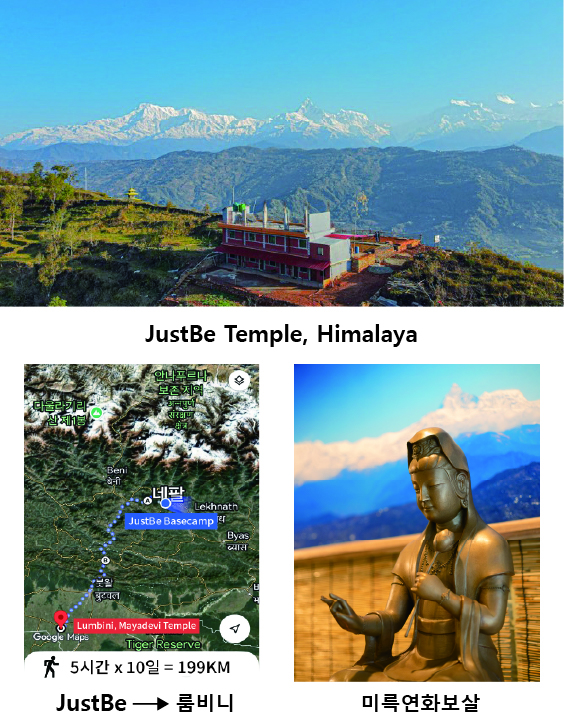
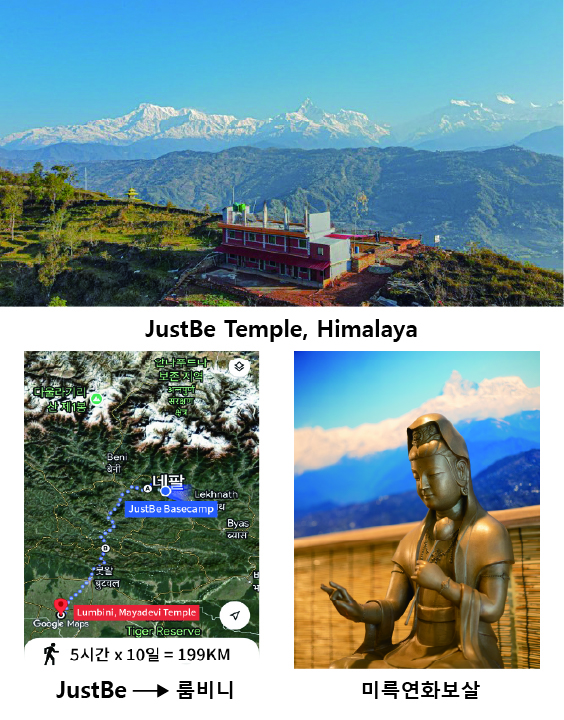
image update

Changed region(s): [[0.0301, 0.4278, 0.9645, 1.0]]

diff --git a/index.html b/index.html
@@ -31,14 +31,14 @@
     <meta property="og:url" content="https://himalaya.justbetemple.org/">
     <meta property="og:title" content="JustBe 히말라야 프로젝트 - 미륵연화보살님 화주 동참 안내">
     <meta property="og:description" content="2600년 전, 부처님의 옛 길을 다시 걷다. 네팔 히말라야에 한국불교 첫 도량을 건립하고 붓다로드를 복원하는 여정에 함께해 주세요.">
-    <meta property="og:image" content="https://himalaya.justbetemple.org/resource/img/maya.jpeg">
+    <meta property="og:image" content="https://himalaya.justbetemple.org/resource/img/hero_bg_low_res.jpeg">
     
     <!-- Twitter -->
     <meta property="twitter:card" content="summary_large_image">
     <meta property="twitter:url" content="https://himalaya.justbetemple.org/">
     <meta property="twitter:title" content="JustBe 히말라야 프로젝트 - 미륵연화보살님 화주 동참 안내">
     <meta property="twitter:description" content="2600년 전, 부처님의 옛 길을 다시 걷다. 네팔 히말라야에 한국불교 첫 도량을 건립하고 붓다로드를 복원하는 여정에 함께해 주세요.">
-    <meta property="twitter:image" content="https://himalaya.justbetemple.org/resource/img/maya.jpeg">
+    <meta property="twitter:image" content="https://himalaya.justbetemple.org/resource/img/hero_bg_low_res.jpeg">
     
     <script src="https://cdn.tailwindcss.com"></script>
     <link rel="preconnect" href="https://fonts.googleapis.com">
@@ -228,7 +228,7 @@
                     <div class="grid md:grid-cols-3 gap-8 items-center">
                         <div class="md:col-span-1">
                             <div class="aspect-w-1 aspect-h-1 rounded-lg overflow-hidden shadow-2xl bg-gray-200">
-                                <img src="resource/img/maya.jpeg" 
+                                <img src="resource/img/moyeon.jpeg" 
                                      alt="히말라야로 향하는 佛母 서칠교 작가님의 미륵보살님" 
                                      class="w-full h-full object-cover" 
                                      onerror="this.outerHTML='<div class=\'flex items-center justify-center h-full bg-gray-200 text-gray-600 text-center p-4 rounded-lg\'><p><strong>이미지 표시 오류</strong><br>사진을 불러오는 데 기술적인 문제가 발생했습니다.</p></div>'">
